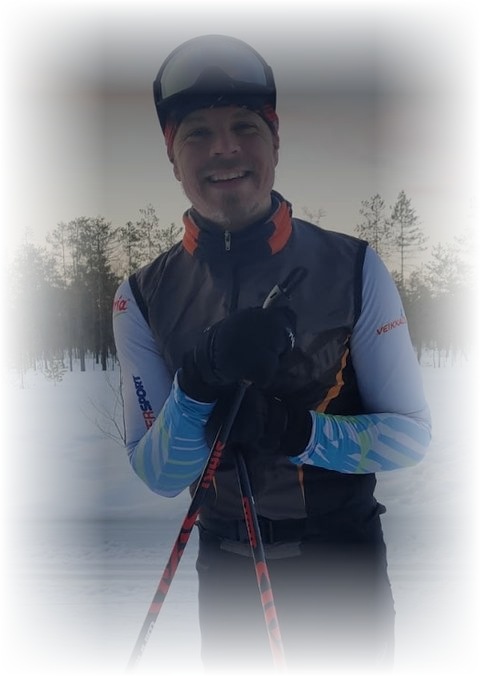
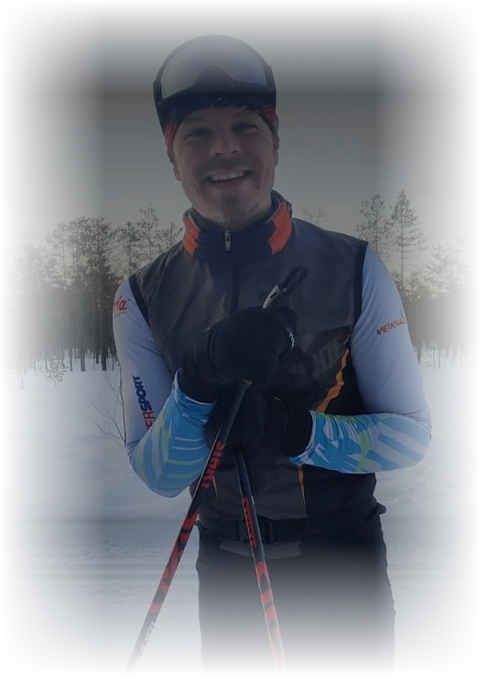
Ansioluettelo: profiilikuvan taivas sävytetty heron sävyyn pään kohdalta
Kirkas taivas puiden latvojen yläpuolella näkyi vaaleana vaakakaistana
kasvojen korkeudella. Taivasta sävytetään 40 % kohti heron taivaan
sinistä vain kirkkaissa kohdissa pään ja hartioiden korkeudella.

Changed region(s): [[0.125, 0.1243, 0.4062, 0.4038], [0.5625, 0.1553, 0.875, 0.4038]]

diff --git a/tyokalut/tee-heron-profiilikuva.py b/tyokalut/tee-heron-profiilikuva.py
@@ -12,13 +12,18 @@ mask-imagea eikä filteriä, joten molemmat leivotaan tiedostoon:
   - lisätummennus yläosaan, joka ulottuu valikkolinkkien taakse: kerroin 0,6
     yläreunassa, nousee 1:een 35 %:n korkeudella. Tummennus on kuvassa eikä
     erillisenä CSS-gradienttina, jotta se häivyy reunoilta kuvan mukana.
+  - taivaan sävytys pään ja hartioiden korkeudella: taivas on kirkkaimmillaan
+    puiden latvojen yläpuolella ja näkyi herossa vaaleana vaakakaistana kasvojen
+    kohdalla. Taivas sävytetään kohti heron taivaan sinistä. Kohdistuu vain
+    kirkkaisiin pikseleihin (luminanssi 150-215), joten kasvot (~95) ja puut
+    eivät muutu. Vaikutus loppuu hartioiden alapuolella, jottei lumi tummu.
 
 Lähde on markus-hytonen.jpg (480 x 676). Ajetaan repon juuresta:
     python3 tyokalut/tee-heron-profiilikuva.py
 """
 
 import numpy as np
-from PIL import Image, ImageEnhance
+from PIL import Image, ImageEnhance, ImageFilter
 
 LAHDE = "markus-hytonen.jpg"
 KOHDE = "markus-hytonen-hero"
@@ -31,6 +36,24 @@ def ramppi(n, alku, loppu):
 
 
 kuva = Image.open(LAHDE).convert("RGB")
+
+lahto = np.asarray(kuva, dtype=float)
+lum = np.asarray(kuva.convert("L"), dtype=float)
+taivas = np.clip((lum - 150) / (215 - 150), 0, 1)
+taivas = taivas * taivas * (3 - 2 * taivas)
+rivit = np.arange(lahto.shape[0])[:, None]
+alue = np.clip((340 - rivit) / (340 - 300), 0, 1)   # y < 300 täysi, 340 -> 0
+# Sumennettu maski, jottei puiden latvoihin jää teräviä vaaleita reunoja.
+# MaxFilter laajentaa maskia muutaman pikselin ääriviivoja kohti: muuten pään ja
+# hartioiden ympärille jäi ohut sävyttämätön, vaalea reunus.
+maski = (Image.fromarray((taivas * alue * 255).astype("uint8"))
+         .filter(ImageFilter.MaxFilter(7)).filter(ImageFilter.GaussianBlur(3)))
+# 0,4: alkuperäistä taivasta jää 60 %. 0,7 teki pään sivuista liian tummat.
+paino = 0.4 * np.asarray(maski, dtype=float)[..., None] / 255
+# Kohti heron taivaan sävyä (mitattu herosta 66,78,86 ja jaettu alla olevalla
+# himmennyksellä 0,72); pelkkä tummennus teki harmaanpunertavasta taivaasta ruskean.
+TAIVAAN_SAVY = np.array([92, 108, 120], dtype=float)
+kuva = Image.fromarray((lahto * (1 - paino) + TAIVAAN_SAVY * paino).round().astype("uint8"))
 kuva = ImageEnhance.Brightness(kuva).enhance(0.72)
 kuva = ImageEnhance.Color(kuva).enhance(0.9)
 
